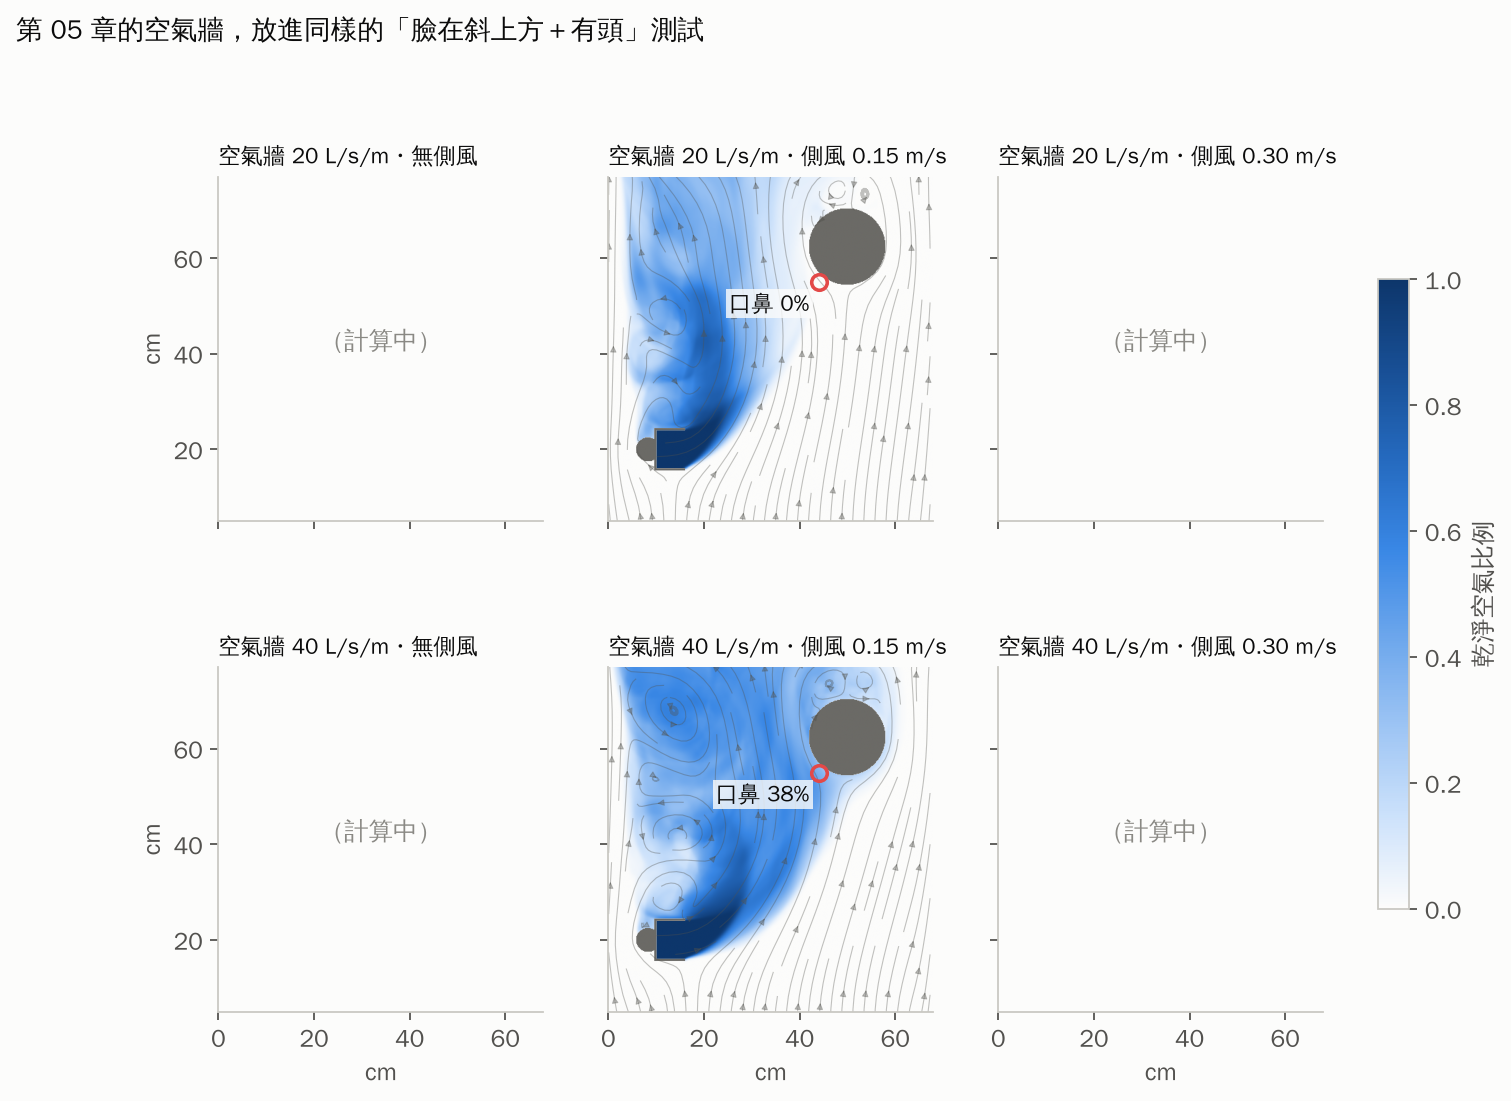
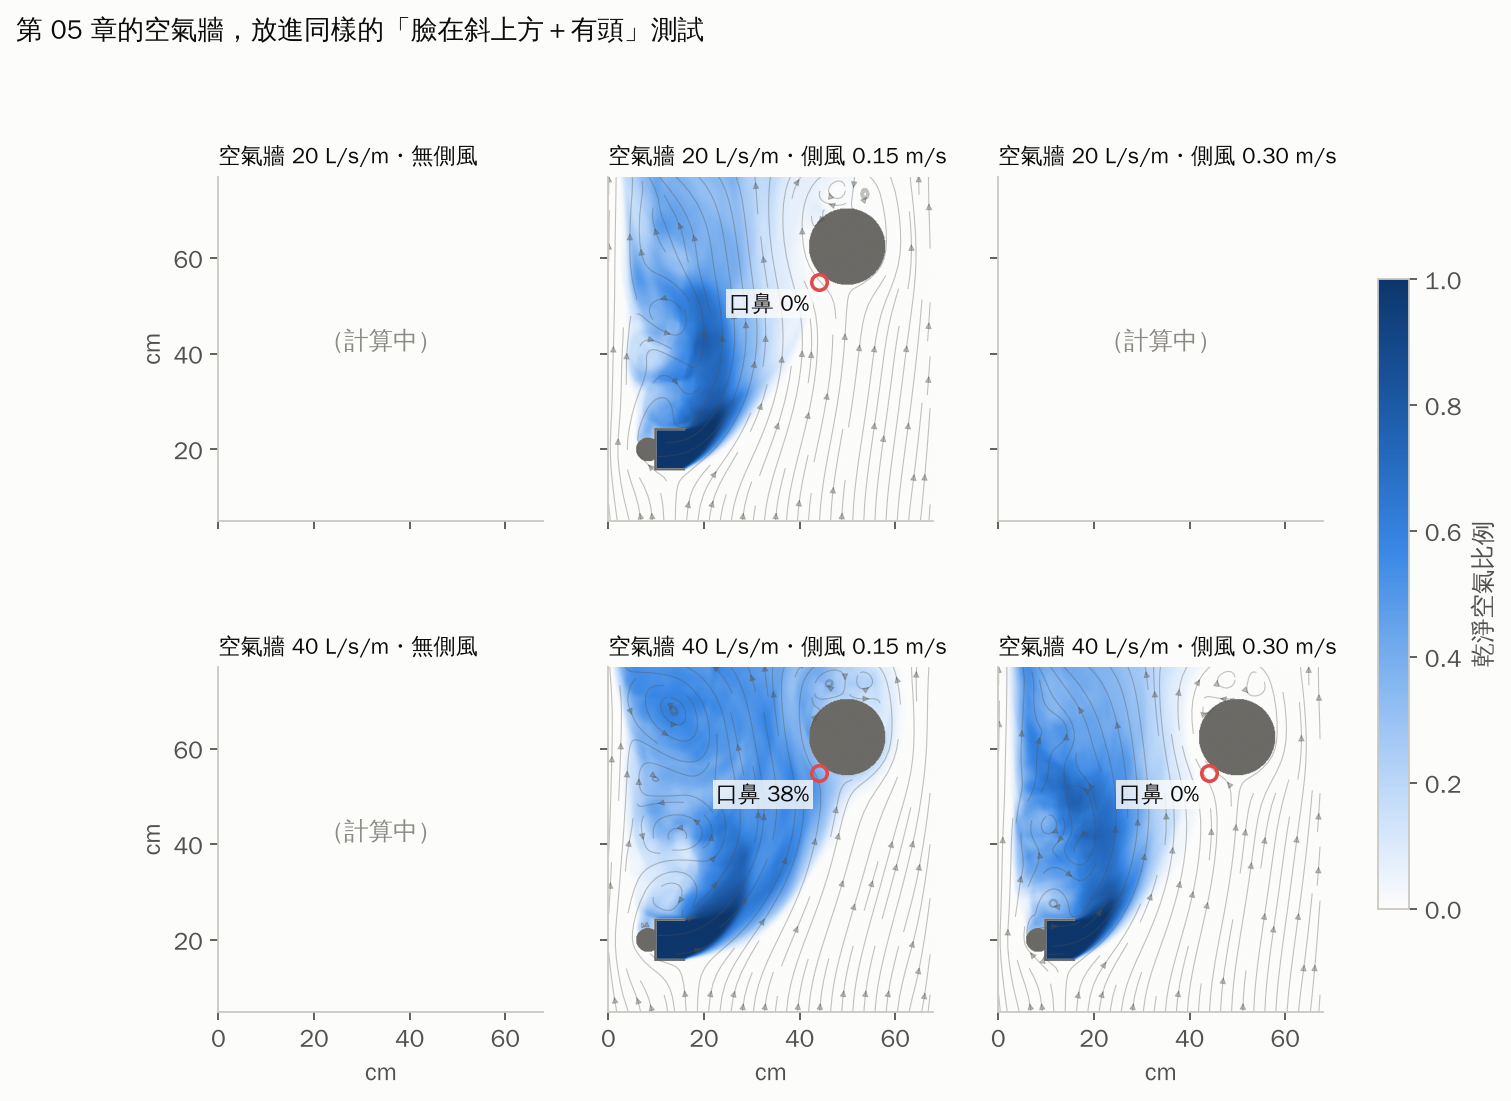
Face-above: 13/18 results (W40, crossflow 0.30)
Claude-Session: https://claude.ai/code/session_01CLMVR9XzZXdsSKCMSLUbBG

Changed region(s): [[0.6532, 0.5867, 0.8709, 0.9264]]

diff --git a/stairwell-airflow-sim/report/index.html b/stairwell-airflow-sim/report/index.html
@@ -173,7 +173,7 @@ footer { margin-top: 48px; padding-top: 20px; border-top: 1px solid var(--line);
   <h1>扶手送風模擬報告</h1>
   <p class="question">一根貫穿整棟樓的扶手，平時能不能流通、淨化空氣？火災時能幫逃生者做到什麼？用電腦模擬一項一項檢查。</p>
   <div class="meta"><span>日期 <b>2026-10-19</b></span><span>專案 <b>長庚大學工業設計學系 林煜宸</b></span><span>模擬與撰寫 <b>Claude（AI）</b></span></div>
-  <div class="progress" role="status"><p>臉在斜上方的出風口重算：已完成 12/18 組，整體約 70%，預計台灣時間 <b>23:56</b> 前後完成</p><div class="bar" aria-hidden="true"><span style="width:69.8%"></span></div><div class="chips"><span class="chip chip-run"><b>B 康達往上</b>・無側風　48%</span><span class="chip chip-done"><b>B 康達往上</b>・側風 0.15　完成</span><span class="chip chip-done"><b>B 康達往上</b>・側風 0.30　完成</span><span class="chip chip-done"><b>A 一般</b>・側風 0.30　完成</span><span class="chip chip-done"><b>C 低混合</b>・側風 0.30　完成</span><span class="chip chip-done"><b>D 倍增</b>・側風 0.30　完成</span><span class="chip chip-done"><b>A 一般</b>・無側風　完成</span><span class="chip chip-done"><b>A 一般</b>・側風 0.15　完成</span><span class="chip chip-run"><b>D 倍增</b>・無側風　52%</span><span class="chip chip-done"><b>D 倍增</b>・側風 0.15　完成</span><span class="chip chip-done"><b>C 低混合</b>・側風 0.15　完成</span><span class="chip chip-done"><b>C 低混合</b>・無側風　完成</span><span class="chip chip-done"><b>W 空氣牆 40</b>・側風 0.15　完成</span><span class="chip chip-done"><b>W 空氣牆 20</b>・側風 0.15　完成</span><span class="chip chip-run"><b>W 空氣牆 40</b>・側風 0.30　96%</span><span class="chip chip-run"><b>W 空氣牆 20</b>・側風 0.30　0%</span><span class="chip chip-wait"><b>W 空氣牆 40</b>・無側風　排隊中</span><span class="chip chip-wait"><b>W 空氣牆 20</b>・無側風　排隊中</span></div><p class="muted small">進度在每次更新報告時重新計算（最後更新：台灣時間 10/19 23:16）。</p></div>
+  <div class="progress" role="status"><p>臉在斜上方的出風口重算：已完成 13/18 組，整體約 70%，預計台灣時間 <b>23:56</b> 前後完成</p><div class="bar" aria-hidden="true"><span style="width:70.5%"></span></div><div class="chips"><span class="chip chip-run"><b>B 康達往上</b>・無側風　50%</span><span class="chip chip-done"><b>B 康達往上</b>・側風 0.15　完成</span><span class="chip chip-done"><b>B 康達往上</b>・側風 0.30　完成</span><span class="chip chip-done"><b>A 一般</b>・側風 0.30　完成</span><span class="chip chip-done"><b>C 低混合</b>・側風 0.30　完成</span><span class="chip chip-done"><b>D 倍增</b>・側風 0.30　完成</span><span class="chip chip-done"><b>A 一般</b>・無側風　完成</span><span class="chip chip-done"><b>A 一般</b>・側風 0.15　完成</span><span class="chip chip-run"><b>D 倍增</b>・無側風　55%</span><span class="chip chip-done"><b>D 倍增</b>・側風 0.15　完成</span><span class="chip chip-done"><b>C 低混合</b>・側風 0.15　完成</span><span class="chip chip-done"><b>C 低混合</b>・無側風　完成</span><span class="chip chip-done"><b>W 空氣牆 40</b>・側風 0.15　完成</span><span class="chip chip-done"><b>W 空氣牆 20</b>・側風 0.15　完成</span><span class="chip chip-done"><b>W 空氣牆 40</b>・側風 0.30　完成</span><span class="chip chip-run"><b>W 空氣牆 20</b>・側風 0.30　0%</span><span class="chip chip-run"><b>W 空氣牆 40</b>・無側風　0%</span><span class="chip chip-wait"><b>W 空氣牆 20</b>・無側風　排隊中</span></div><p class="muted small">進度在每次更新報告時重新計算（最後更新：台灣時間 10/19 23:17）。</p></div>
 </header>
 <nav class="toc" aria-label="章節">
   <a href="#summary">一頁看懂</a><a href="#method">怎麼測的</a><a href="#daily">平時：新風帶</a><a href="#fire">火災：守護路線</a>
@@ -445,16 +445,16 @@ footer { margin-top: 48px; padding-top: 20px; border-top: 1px solid var(--line);
 
 <section id="nozzle">
   <h2><span class="no">04</span>四種出風口比一比（臉在扶手斜上方）</h2>
-  <p class="oneliner">臉在扶手斜上方時（已完成 12/18 組），目前口鼻乾淨空氣最高的是 C 低混合同軸（無側風）：40%。</p>
+  <p class="oneliner">臉在扶手斜上方時（已完成 13/18 組），目前口鼻乾淨空氣最高的是 C 低混合同軸（無側風）：40%。</p>
   <figure class="fig render"><img class="img-any" src="assets/render_nozzles.webp" alt="四種扶手側面出風口形式比較" loading="lazy"><figcaption>四種出風口的造型構想（設計渲染圖）。圖中文字是設計構想，實際結果以下方模擬為準。</figcaption></figure>
   <figure class="fig"><img class="img-light" src="assets/s2f_saf_bars.png" alt="臉在斜上方時四種出風口的乾淨空氣比例" loading="lazy"><img class="img-dark" src="assets/s2f_saf_bars_dark.png" alt="臉在斜上方時四種出風口的乾淨空氣比例" loading="lazy"><figcaption>每條橫條代表 100% 的吸入空氣，彩色部分是來自出風口的乾淨空氣。黑色短線是最差 10% 的時刻。</figcaption></figure>
   <div class="points prose">
 <p><b>為什麼重算：</b>人扶著內側扶手下樓時，臉在扶手的<b>斜上方</b>，不是正前方。這組把口鼻放在出風口往樓梯側 28 cm、往上 35 cm（距離約 45 cm、仰角約 51°）；A、C、D 出風口改成朝向口鼻，B 改用藏在底面、往上轉的康達出風口。每公尺送風量都是 5 L/s，網格 1.5 mm。<span class="tag tag-sim">模擬結果</span></p>
-<div class="table-wrap"><table><thead><tr><th scope="col">出風口</th><th scope="col">無側風</th><th scope="col">側風 0.15</th><th scope="col">側風 0.30</th></tr></thead><tbody><tr><th scope="row">A 一般定向</th><td class="num">18%</td><td class="num">0%</td><td class="num">0%</td></tr><tr><th scope="row">B 康達往上</th><td class="num">計算中</td><td class="num">0%</td><td class="num">0%</td></tr><tr><th scope="row">C 低混合同軸</th><td class="num">40%</td><td class="num">0%</td><td class="num">0%</td></tr><tr><th scope="row">D 氣流倍增</th><td class="num">計算中</td><td class="num">0%</td><td class="num">0%</td></tr><tr><th scope="row">W 空氣牆 20 L/s/m</th><td class="num">計算中</td><td class="num">0%</td><td class="num">計算中</td></tr><tr><th scope="row">W 空氣牆 40 L/s/m</th><td class="num">計算中</td><td class="num">38%</td><td class="num">計算中</td></tr></tbody></table></div>
+<div class="table-wrap"><table><thead><tr><th scope="col">出風口</th><th scope="col">無側風</th><th scope="col">側風 0.15</th><th scope="col">側風 0.30</th></tr></thead><tbody><tr><th scope="row">A 一般定向</th><td class="num">18%</td><td class="num">0%</td><td class="num">0%</td></tr><tr><th scope="row">B 康達往上</th><td class="num">計算中</td><td class="num">0%</td><td class="num">0%</td></tr><tr><th scope="row">C 低混合同軸</th><td class="num">40%</td><td class="num">0%</td><td class="num">0%</td></tr><tr><th scope="row">D 氣流倍增</th><td class="num">計算中</td><td class="num">0%</td><td class="num">0%</td></tr><tr><th scope="row">W 空氣牆 20 L/s/m</th><td class="num">計算中</td><td class="num">0%</td><td class="num">計算中</td></tr><tr><th scope="row">W 空氣牆 40 L/s/m</th><td class="num">計算中</td><td class="num">38%</td><td class="num">0%</td></tr></tbody></table></div>
 <p><b>目前看到的現象（8 組有側風的結果）：</b>有側風時，出風口吹出的乾淨空氣一離開扶手，就被由下往上的氣流帶著<b>貼著扶手正上方往上走</b>，到不了往樓梯側 28 cm 外的臉，口鼻都是 0%。B 康達往上確實有沿圓角轉向上（下面的圖看得到深藍色貼著導風腔轉彎），但轉上去之後一樣直直往上，沒有往臉的方向偏。<span class="tag tag-sim">模擬結果</span></p>
 <p><b>加算空氣牆：</b>先算完的幾組顯示，每公尺 5 L/s 的出風口在有側風時送不到斜上方的臉。所以把第 05 章表現最好的空氣牆（寬 80 mm、每公尺 20 或 40 L/s、水平往樓梯側吹）也放進同一個「臉在斜上方＋有頭」的測試，共 6 組，表格最後兩列。<span class="tag tag-sim">模擬結果</span></p>
 <p><b>無側風要算久一點：</b>沒有側風時氣流很慢，乾淨空氣要好幾秒才飄到臉旁。先算的 10 秒版本裡，B、C、D 的口鼻數值還在一路往上爬（B 從 0% 爬到 12%、C 從 15% 爬到 46%、D 從 0% 爬到 36%），代表還沒穩定，所以無側風的 B、C、D 和空氣牆延長到 24 秒重算，取後 16 秒平均。A 的 10 秒版本前後半段差不多（19%／18%），已經穩定。<span class="tag tag-sim">模擬結果</span></p>
-<p class="muted">已完成 12/18 組，其餘計算中；每完成一批就會更新。</p></div>
+<p class="muted">已完成 13/18 組，其餘計算中；每完成一批就會更新。</p></div>
   <figure class="fig"><img class="img-light" src="assets/s2f_vc00_fields.png" alt="臉在斜上方、無側風" loading="lazy"><img class="img-dark" src="assets/s2f_vc00_fields_dark.png" alt="臉在斜上方、無側風" loading="lazy"><figcaption>無側風：紅圈是口鼻位置，顏色越深代表出風口的空氣越多。</figcaption></figure>
   <figure class="fig"><img class="img-light" src="assets/s2f_vc15_fields.png" alt="臉在斜上方、側風 0.15 m/s" loading="lazy"><img class="img-dark" src="assets/s2f_vc15_fields_dark.png" alt="臉在斜上方、側風 0.15 m/s" loading="lazy"><figcaption>側風 0.15 m/s（由下往上）。</figcaption></figure>
   <figure class="fig"><video src="assets/s2f_vc15.mp4" controls muted loop playsinline preload="metadata"></video><figcaption>動畫（臉在斜上方、側風 0.15 m/s）。每格 0.08 秒。</figcaption></figure>
